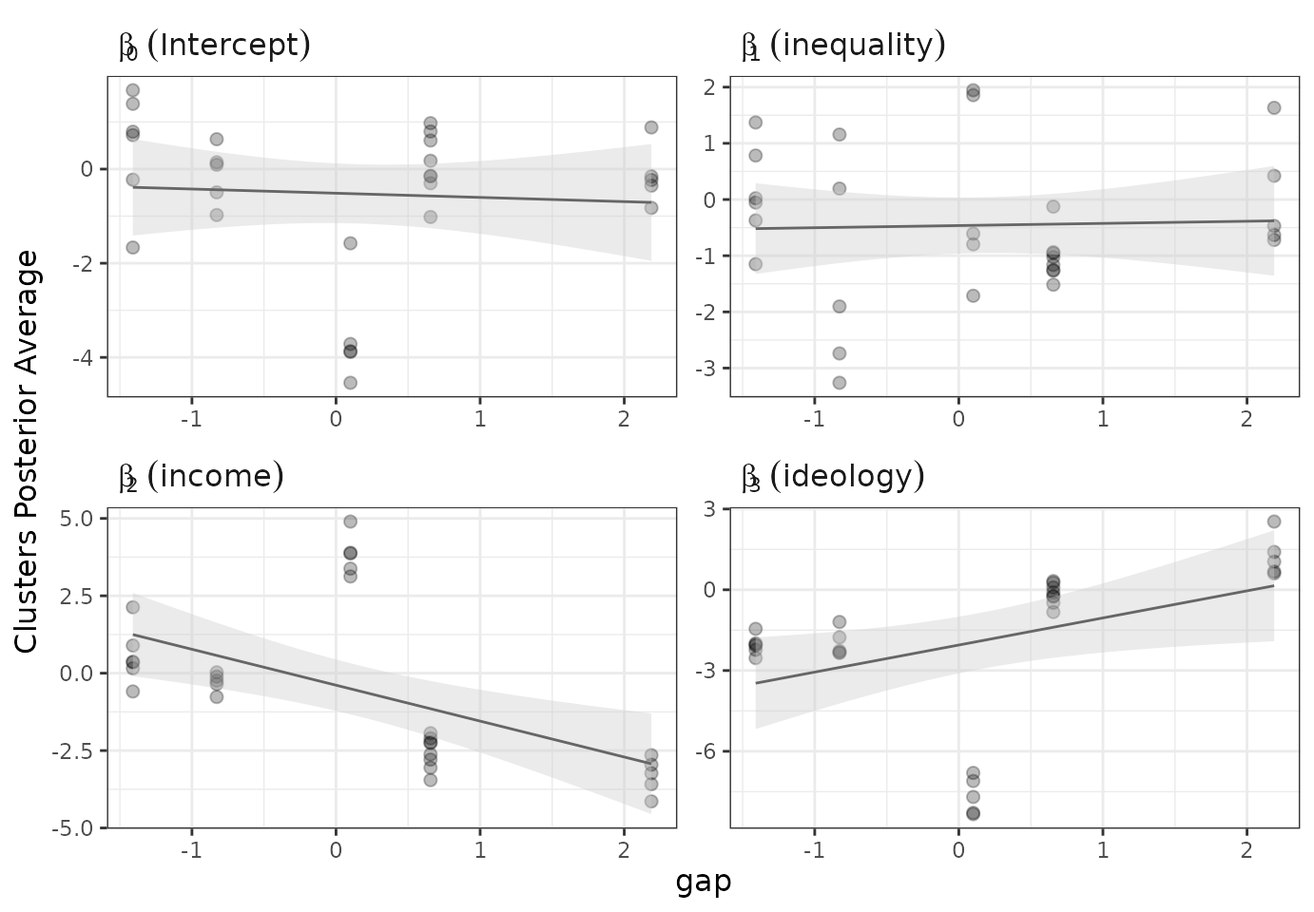
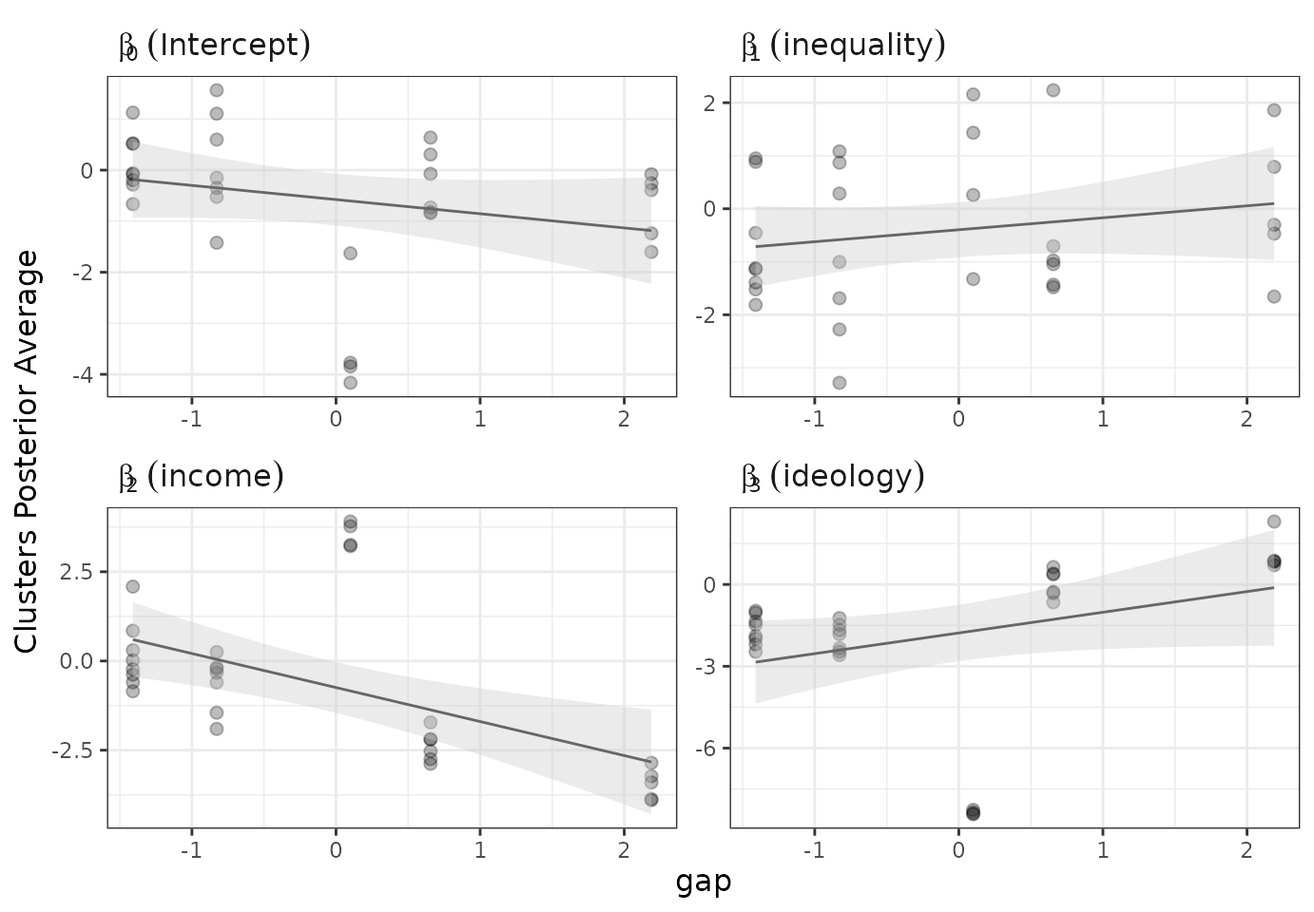
Vignette updated

diff --git a/docs/articles/hdpGLM.html b/docs/articles/hdpGLM.html
@@ -162,7 +162,7 @@
 <span class="co">#&gt; -------------------------------- </span>
 <span class="co">#&gt; dpGLM model object</span>
 <span class="co">#&gt; </span>
-<span class="co">#&gt; Maximum number of clusters activated during the estimation: 14</span>
+<span class="co">#&gt; Maximum number of clusters activated during the estimation: 10</span>
 <span class="co">#&gt; Numer of MCMC iterations: 500</span>
 <span class="co">#&gt; burn-in: 10</span>
 <span class="co">#&gt; -------------------------------- </span>
@@ -172,22 +172,22 @@
 <span class="co">#&gt; --------------------------------</span>
 <span class="co">#&gt; Coefficients for cluster 1 (cluster label 1)</span>
 <span class="co">#&gt; </span>
-<span class="co">#&gt;                Post.Mean Post.Median  HPD.lower HPD.upper</span>
-<span class="co">#&gt; 1 (Intercept) -3.8714657  -3.8726491 -3.9409884 -3.803691</span>
-<span class="co">#&gt; 2  inequality  2.0005534   2.0003258  1.9304364  2.066584</span>
-<span class="co">#&gt; 3      income  3.8483607   3.8481365  3.7736635  3.921207</span>
-<span class="co">#&gt; 4    ideology -8.3037017  -8.3034030 -8.3795892 -8.237106</span>
-<span class="co">#&gt; 5       sigma  0.9996877   0.9979384  0.9059047  1.084941</span>
+<span class="co">#&gt;               Post.Mean Post.Median  HPD.lower HPD.upper</span>
+<span class="co">#&gt; 1 (Intercept) -3.820342  -3.8205851 -3.8955201 -3.739614</span>
+<span class="co">#&gt; 2  inequality -1.518934  -1.5207438 -1.5895745 -1.442059</span>
+<span class="co">#&gt; 3      income  3.881108   3.8811515  3.8137486  3.956360</span>
+<span class="co">#&gt; 4    ideology -8.259434  -8.2594468 -8.3230964 -8.182621</span>
+<span class="co">#&gt; 5       sigma  0.981664   0.9856416  0.8756627  1.076816</span>
 <span class="co">#&gt; </span>
 <span class="co">#&gt; --------------------------------</span>
-<span class="co">#&gt; Coefficients for cluster 2 (cluster label 4)</span>
+<span class="co">#&gt; Coefficients for cluster 2 (cluster label 8)</span>
 <span class="co">#&gt; </span>
 <span class="co">#&gt;                Post.Mean Post.Median  HPD.lower HPD.upper</span>
-<span class="co">#&gt; 1 (Intercept) -3.8193291  -3.8182323 -3.8914804 -3.739364</span>
-<span class="co">#&gt; 2  inequality -1.5254658  -1.5241162 -1.6019978 -1.457243</span>
-<span class="co">#&gt; 3      income  3.8786786   3.8795568  3.8127788  3.951021</span>
-<span class="co">#&gt; 4    ideology -8.2589154  -8.2591555 -8.3352574 -8.197083</span>
-<span class="co">#&gt; 5       sigma  0.9773662   0.9772002  0.8693291  1.078841</span>
+<span class="co">#&gt; 1 (Intercept) -3.8713264  -3.8724449 -3.9348173 -3.804220</span>
+<span class="co">#&gt; 2  inequality  2.0029112   2.0022762  1.9332656  2.066500</span>
+<span class="co">#&gt; 3      income  3.8490656   3.8486538  3.7778248  3.919457</span>
+<span class="co">#&gt; 4    ideology -8.3074780  -8.3057829 -8.3810070 -8.226528</span>
+<span class="co">#&gt; 5       sigma  0.9977652   0.9950568  0.9110387  1.081033</span>
 <span class="co">#&gt; </span>
 <span class="co">#&gt; --------------------------------</span></code></pre></div>
 <p>The summary function prints the result in a tidy format. The column <code>k</code> in the summary shows the label of the estimated clusters. The column <code>Mean</code> is the average of the posterior distribution for each linear coefficient in each cluster.</p>
@@ -196,20 +196,20 @@
 <code class="sourceCode R"><span class="va">welfare_clustered</span> <span class="op">=</span> <span class="fu"><a href="../reference/classify.html">classify</a></span><span class="op">(</span><span class="va">welfare</span>, <span class="va">mod</span><span class="op">)</span>
 <span class="fu"><a href="https://rdrr.io/r/utils/head.html" class="external-link">head</a></span><span class="op">(</span><span class="va">welfare_clustered</span><span class="op">)</span>
 <span class="co">#&gt;   Cluster     support inequality     income   ideology</span>
-<span class="co">#&gt; 1       1 -18.5649610  0.3392724  0.1425111  1.9225985</span>
-<span class="co">#&gt; 2       1  -9.3905812 -0.9906646 -0.5117102  0.2483346</span>
-<span class="co">#&gt; 3       1   0.9276234 -2.2318510 -0.3856288 -1.3619216</span>
-<span class="co">#&gt; 4       1 -12.3594498 -3.0079501 -0.9440585 -0.2088675</span>
-<span class="co">#&gt; 5       4  -2.4834411  0.1000455  0.8322192  0.1321378</span>
-<span class="co">#&gt; 6       1 -11.4187853 -0.9543883 -0.8810503  0.2916444</span>
+<span class="co">#&gt; 1       8 -18.5649610  0.3392724  0.1425111  1.9225985</span>
+<span class="co">#&gt; 2       8  -9.3905812 -0.9906646 -0.5117102  0.2483346</span>
+<span class="co">#&gt; 3       8   0.9276234 -2.2318510 -0.3856288 -1.3619216</span>
+<span class="co">#&gt; 4       8 -12.3594498 -3.0079501 -0.9440585 -0.2088675</span>
+<span class="co">#&gt; 5       1  -2.4834411  0.1000455  0.8322192  0.1321378</span>
+<span class="co">#&gt; 6       8 -11.4187853 -0.9543883 -0.8810503  0.2916444</span>
 <span class="fu"><a href="https://rdrr.io/r/utils/head.html" class="external-link">tail</a></span><span class="op">(</span><span class="va">welfare_clustered</span><span class="op">)</span>
 <span class="co">#&gt;      Cluster     support  inequality     income   ideology</span>
-<span class="co">#&gt; 1995       4  -1.5230053 1.055855140 -0.7295937 -0.7067871</span>
-<span class="co">#&gt; 1996       4   0.4814892 0.582588091  2.0051082  0.3090389</span>
-<span class="co">#&gt; 1997       4 -14.1929956 0.391164197 -0.9607449  0.7765482</span>
-<span class="co">#&gt; 1998       4  -8.2396789 0.074437376  1.2020300  1.0874928</span>
+<span class="co">#&gt; 1995       1  -1.5230053 1.055855140 -0.7295937 -0.7067871</span>
+<span class="co">#&gt; 1996       1   0.4814892 0.582588091  2.0051082  0.3090389</span>
+<span class="co">#&gt; 1997       1 -14.1929956 0.391164197 -0.9607449  0.7765482</span>
+<span class="co">#&gt; 1998       1  -8.2396789 0.074437376  1.2020300  1.0874928</span>
 <span class="co">#&gt; 1999       1 -23.1583753 0.434223018 -0.6176438  2.0387294</span>
-<span class="co">#&gt; 2000       4  -7.2075582 0.008355317 -0.4538951  0.2268072</span></code></pre></div>
+<span class="co">#&gt; 2000       1  -7.2075582 0.008355317 -0.4538951  0.2268072</span></code></pre></div>
 <p>There are a series of built-in functions, with various options, to plot the results. In the example below, you see two of those options. The <code>separate</code> parameter plot the posterior samples for each cluster separately, and the option <code>ncols</code> controls how many columns to use for the panels in the figure (to see more, run <code><a href="../reference/plot.hdpGLM.html">help(plot.hdpGLM)</a></code> and <code><a href="../reference/plot.dpGLM.html">help(plot.dpGLM)</a></code>).</p>
 <div class="sourceCode" id="cb6"><pre class="downlit sourceCode r">
 <code class="sourceCode R"><span class="fu"><a href="https://rdrr.io/r/graphics/plot.default.html" class="external-link">plot</a></span><span class="op">(</span><span class="va">mod</span>, separate<span class="op">=</span><span class="cn">T</span>, ncols<span class="op">=</span><span class="fl">4</span><span class="op">)</span>
@@ -263,8 +263,8 @@
 <span class="co">#&gt; </span>
 <span class="co">#&gt; Number of clusters (summary across contexts): </span>
 <span class="co">#&gt; </span>
-<span class="co">#&gt;   Average Std.Dev Median Min. Max.</span>
-<span class="co">#&gt; 1     5.8 1.30384      5    5    8</span>
+<span class="co">#&gt;   Average  Std.Dev Median Min. Max.</span>
+<span class="co">#&gt; 1       6 1.581139      6    4    8</span>
 <span class="co">#&gt; -------------------------------- </span>
 <span class="co">#&gt; </span>
 <span class="co">#&gt; </span>
@@ -273,155 +273,159 @@
 <span class="co">#&gt; --------------------------------</span>
 <span class="co">#&gt; Coefficients and clusters for context 1</span>
 <span class="co">#&gt; </span>
-<span class="co">#&gt;                 Post.Mean Post.Median  HPD.lower  HPD.upper Cluster</span>
-<span class="co">#&gt; 1  (Intercept) -3.8691486  -3.8677277 -3.9317384 -3.8028867       1</span>
-<span class="co">#&gt; 2   inequality  1.8572635   1.9723704  0.3701819  2.1128131       1</span>
-<span class="co">#&gt; 3       income  3.8684303   3.8678467  3.8094518  3.9593933       1</span>
-<span class="co">#&gt; 4     ideology -8.3337143  -8.3265556 -8.4113724 -8.2579189       1</span>
-<span class="co">#&gt; 5  (Intercept) -3.8838981  -4.0436776 -4.3945020 -3.0875923       3</span>
-<span class="co">#&gt; 6   inequality  1.9447127   1.7012563  1.3604077  3.3998124       3</span>
-<span class="co">#&gt; 7       income  4.8990707   4.8160991  4.4604110  5.5971629       3</span>
-<span class="co">#&gt; 8     ideology -7.1033860  -7.0553234 -7.8293354 -6.7414286       3</span>
-<span class="co">#&gt; 9  (Intercept) -3.7153994  -3.7111308 -3.8544582 -3.4682348       5</span>
-<span class="co">#&gt; 10  inequality -1.7127796  -1.7016789 -1.8887122 -1.5995945       5</span>
-<span class="co">#&gt; 11      income  3.8908823   3.9170212  3.5403026  4.0820740       5</span>
-<span class="co">#&gt; 12    ideology -8.2862354  -8.3023397 -8.4961317 -8.2127732       5</span>
-<span class="co">#&gt; 13 (Intercept) -1.5761459  -1.7543487 -2.7112219  1.4165447       7</span>
-<span class="co">#&gt; 14  inequality -0.6075125  -0.6166066 -1.1661250  0.1292782       7</span>
-<span class="co">#&gt; 15      income  3.1254454   3.2621091  2.2328930  3.7288342       7</span>
-<span class="co">#&gt; 16    ideology -6.8017677  -7.1393259 -8.0906265 -3.8284329       7</span>
-<span class="co">#&gt; 17 (Intercept) -4.5401229  -4.0133279 -6.6431063 -3.7656886       9</span>
-<span class="co">#&gt; 18  inequality -0.7975913  -1.3681130 -1.5226403  1.3218476       9</span>
-<span class="co">#&gt; 19      income  3.3773827   3.8280258  1.4977067  4.0056551       9</span>
-<span class="co">#&gt; 20    ideology -7.6955496  -8.1496245 -8.3111966 -3.9722123       9</span>
-<span class="co">#&gt; </span>
-<span class="co">#&gt; --------------------------------</span>
-<span class="co">#&gt; Coefficients and clusters for context 4</span>
-<span class="co">#&gt; </span>
-<span class="co">#&gt;                  Post.Mean Post.Median   HPD.lower   HPD.upper Cluster</span>
-<span class="co">#&gt; 1  (Intercept)  0.17676250  0.17288753  0.06786528  0.32057505       1</span>
-<span class="co">#&gt; 2   inequality -1.16417841 -1.17386088 -1.28738349 -1.05128599       1</span>
-<span class="co">#&gt; 3       income -2.62197857 -2.65490275 -2.74894948 -2.47972794       1</span>
-<span class="co">#&gt; 4     ideology -0.09635996 -0.07998361 -0.28382959  0.04573722       1</span>
-<span class="co">#&gt; 5  (Intercept)  0.97543076  0.94460491  0.68283623  1.53289463       2</span>
-<span class="co">#&gt; 6   inequality -0.93631248 -0.95258268 -1.17981640 -0.69206364       2</span>
-<span class="co">#&gt; 7       income -2.23369431 -2.45897054 -2.67470977 -1.95060768       2</span>
-<span class="co">#&gt; 8     ideology -0.23312620 -0.31240089 -0.48148471  0.24953273       2</span>
-<span class="co">#&gt; 9  (Intercept) -1.01740353 -0.98673051 -1.24342487 -0.66275912       3</span>
-<span class="co">#&gt; 10  inequality -1.25575996 -1.25706801 -1.44149898 -1.05238893       3</span>
-<span class="co">#&gt; 11      income -2.25911847 -2.27396814 -2.66235655 -1.98865013       3</span>
-<span class="co">#&gt; 12    ideology -0.25490150 -0.25030628 -0.57721146 -0.06739714       3</span>
-<span class="co">#&gt; 13 (Intercept) -0.30045284 -0.28616407 -0.68974396  0.08508223       4</span>
-<span class="co">#&gt; 14  inequality -1.02500906 -1.03763303 -1.32535346 -0.74614004       4</span>
-<span class="co">#&gt; 15      income -2.10465838 -2.11764743 -2.56871856 -1.73692957       4</span>
-<span class="co">#&gt; 16    ideology  0.26354588  0.22948666  0.04828375  0.60100828       4</span>
-<span class="co">#&gt; 17 (Intercept) -0.14518443 -0.07861976 -0.59821741  0.18224460       5</span>
-<span class="co">#&gt; 18  inequality -1.26635235 -1.28146163 -1.67993619 -0.98265583       5</span>
-<span class="co">#&gt; 19      income -2.79195933 -2.84451891 -3.05840214 -2.60594812       5</span>
-<span class="co">#&gt; 20    ideology -0.48196099 -0.50379396 -1.11216045  0.02684259       5</span>
-<span class="co">#&gt; 21 (Intercept) -0.15139195 -0.08755979 -0.82145053  0.32374937       6</span>
-<span class="co">#&gt; 22  inequality -1.51665084 -1.34283852 -2.38536286 -0.94057238       6</span>
-<span class="co">#&gt; 23      income -3.45379267 -3.42849762 -3.73671854 -3.05479385       6</span>
-<span class="co">#&gt; 24    ideology  0.32187162  0.54100111 -0.58710337  0.94140028       6</span>
-<span class="co">#&gt; 25 (Intercept)  0.79902372  1.04989742 -1.30788815  1.96491760       7</span>
-<span class="co">#&gt; 26  inequality -0.12714421 -0.64147338 -1.19583552  5.53720903       7</span>
-<span class="co">#&gt; 27      income -3.05183147 -3.50077828 -6.39736779  0.81985863       7</span>
-<span class="co">#&gt; 28    ideology -0.82811075 -0.52324498 -4.53580283  0.40022396       7</span>
-<span class="co">#&gt; 29 (Intercept)  0.60705225  0.85693781 -0.95381157  2.08055623       8</span>
-<span class="co">#&gt; 30  inequality -0.95584833 -0.96880533 -2.31320845  0.75725681       8</span>
-<span class="co">#&gt; 31      income -1.93796878 -2.06588358 -3.53701738  0.56348165       8</span>
-<span class="co">#&gt; 32    ideology  0.08618603  0.04528429 -1.21411209  1.35628771       8</span>
+<span class="co">#&gt;                 Post.Mean Post.Median   HPD.lower  HPD.upper Cluster</span>
+<span class="co">#&gt; 1  (Intercept) -3.8435408  -3.8331510 -3.97615472 -3.7537721       1</span>
+<span class="co">#&gt; 2   inequality -1.3261029  -1.4901385 -1.60901140  0.1909329       1</span>
+<span class="co">#&gt; 3       income  3.9066994   3.8943490  3.82972320  4.0263987       1</span>
+<span class="co">#&gt; 4     ideology -8.2611514  -8.2624920 -8.33710096 -8.1455290       1</span>
+<span class="co">#&gt; 5  (Intercept) -4.1654905  -4.0462736 -4.69968653 -3.8005696       2</span>
+<span class="co">#&gt; 6   inequality  1.4334157   1.8348051 -0.05470515  2.0414495       2</span>
+<span class="co">#&gt; 7       income  3.2182141   3.7806349  1.36860779  3.9024854       2</span>
+<span class="co">#&gt; 8     ideology -8.4188022  -8.3177074 -9.17621538 -8.1796062       2</span>
+<span class="co">#&gt; 9  (Intercept) -3.7734976  -3.7792676 -3.92427463 -3.6115441       4</span>
+<span class="co">#&gt; 10  inequality  2.1559495   2.1683449  1.77261760  2.4698304       4</span>
+<span class="co">#&gt; 11      income  3.7756314   3.9057743  2.39785208  3.9984130       4</span>
+<span class="co">#&gt; 12    ideology -8.4067996  -8.3653046 -8.79600576 -8.2157451       4</span>
+<span class="co">#&gt; 13 (Intercept) -1.6294115  -1.9283983 -2.97297752  2.6425719       9</span>
+<span class="co">#&gt; 14  inequality  0.2594955   0.3268137 -2.65567556  1.8628584       9</span>
+<span class="co">#&gt; 15      income  3.2532009   3.5737939  0.37857368  4.5539295       9</span>
+<span class="co">#&gt; 16    ideology -8.3468020  -8.2634402 -9.35668914 -7.3552482       9</span>
 <span class="co">#&gt; </span>
 <span class="co">#&gt; --------------------------------</span>
 <span class="co">#&gt; Coefficients and clusters for context 2</span>
 <span class="co">#&gt; </span>
-<span class="co">#&gt;                  Post.Mean  Post.Median  HPD.lower   HPD.upper Cluster</span>
-<span class="co">#&gt; 1  (Intercept)  1.67479600  1.415211168  1.0581926  3.74313982       2</span>
-<span class="co">#&gt; 2   inequality  0.78277032  0.884627921 -0.2788658  1.30408963       2</span>
-<span class="co">#&gt; 3       income  0.89384429  0.875372002  0.6090348  1.34595069       2</span>
-<span class="co">#&gt; 4     ideology -2.07275976 -1.855912499 -4.0898826 -1.49981793       2</span>
-<span class="co">#&gt; 5  (Intercept)  0.79337396  1.125280248 -2.9945613  3.55177595       3</span>
-<span class="co">#&gt; 6   inequality  1.37071138  2.459151719 -3.5129613  5.13723665       3</span>
-<span class="co">#&gt; 7       income  0.36773516  0.080366101 -3.7171086  7.17338403       3</span>
-<span class="co">#&gt; 8     ideology -2.53563412 -2.681784943 -5.7168872 -0.15771001       3</span>
-<span class="co">#&gt; 9  (Intercept)  0.72155228  0.923436239  0.0254056  1.57290548       4</span>
-<span class="co">#&gt; 10  inequality -0.05395425  0.005435634 -0.8023076  0.50158841       4</span>
-<span class="co">#&gt; 11      income  0.15755351  0.203699603 -0.3884543  0.83771211       4</span>
-<span class="co">#&gt; 12    ideology -1.45166647 -1.355886861 -3.4258981 -0.11660923       4</span>
-<span class="co">#&gt; 13 (Intercept) -1.66627979 -1.669807751 -1.9173291 -1.28821102       5</span>
-<span class="co">#&gt; 14  inequality -0.37207001 -0.451312918 -0.6369271  0.04977276       5</span>
-<span class="co">#&gt; 15      income  0.35513894  0.325143787  0.1088124  0.63353753       5</span>
-<span class="co">#&gt; 16    ideology -1.99405608 -2.038059511 -2.2757063 -1.32307832       5</span>
-<span class="co">#&gt; 17 (Intercept) -0.22532090 -0.172609551 -0.6156275  0.01958949       6</span>
-<span class="co">#&gt; 18  inequality -1.15073691 -1.220684525 -1.4728475 -0.35560105       6</span>
-<span class="co">#&gt; 19      income -0.59035364 -0.595316492 -0.8756050 -0.32579345       6</span>
-<span class="co">#&gt; 20    ideology -2.03482279 -2.250274071 -2.4096874  0.11327415       6</span>
-<span class="co">#&gt; 21 (Intercept)  1.38626489  1.571637990 -2.6477220  4.45208956       7</span>
-<span class="co">#&gt; 22  inequality  0.02238204 -0.057662717 -4.2624059  5.95642783       7</span>
-<span class="co">#&gt; 23      income  2.13002367  2.536470238 -3.4807882  5.56484158       7</span>
-<span class="co">#&gt; 24    ideology -2.22934508 -2.129339393 -7.7649972  2.79895524       7</span>
+<span class="co">#&gt;                  Post.Mean Post.Median  HPD.lower   HPD.upper Cluster</span>
+<span class="co">#&gt; 1  (Intercept)  0.51517881  0.36982828 -1.1130717  3.30249080       1</span>
+<span class="co">#&gt; 2   inequality -0.45557980 -0.20228041 -4.5808496  1.19173373       1</span>
+<span class="co">#&gt; 3       income -0.23081965  0.13507036 -6.4076499  1.09119173       1</span>
+<span class="co">#&gt; 4     ideology -1.99271658 -1.82966055 -4.1611936  4.26886540       1</span>
+<span class="co">#&gt; 5  (Intercept)  0.52389369  0.45962310  0.2398841  1.05539241       2</span>
+<span class="co">#&gt; 6   inequality -1.14002268 -0.98920628 -2.3117589 -0.76755352       2</span>
+<span class="co">#&gt; 7       income  2.08428502  2.01491051  1.8084943  2.93497029       2</span>
+<span class="co">#&gt; 8     ideology -1.35643411 -1.49235789 -1.6937644  0.01399451       2</span>
+<span class="co">#&gt; 9  (Intercept) -0.08153898 -0.14729049 -1.0246796  1.15942831       3</span>
+<span class="co">#&gt; 10  inequality  0.94896101  0.94429845  0.2015474  1.81448360       3</span>
+<span class="co">#&gt; 11      income -0.38343117 -0.29268862 -2.1449640  0.26683443       3</span>
+<span class="co">#&gt; 12    ideology -0.96905307 -1.22408914 -2.0249429  2.39941207       3</span>
+<span class="co">#&gt; 13 (Intercept) -0.28342929 -0.25251476 -1.0816921  0.04286750       5</span>
+<span class="co">#&gt; 14  inequality -1.39204865 -1.33632204 -2.3874876 -1.07728801       5</span>
+<span class="co">#&gt; 15      income -0.59661544 -0.56389919 -1.0997142 -0.31865697       5</span>
+<span class="co">#&gt; 16    ideology -2.19548561 -2.42322731 -2.5587404  0.68848760       5</span>
+<span class="co">#&gt; 17 (Intercept)  1.12505164  1.27700303 -0.8627735  1.53019849       6</span>
+<span class="co">#&gt; 18  inequality  0.88482857  0.94888981 -0.2893567  1.14176656       6</span>
+<span class="co">#&gt; 19      income  0.84726425  0.85747370  0.3982322  1.10390156       6</span>
+<span class="co">#&gt; 20    ideology -1.47622400 -1.76979768 -2.0274940  2.90507937       6</span>
+<span class="co">#&gt; 21 (Intercept) -0.06257288  0.24009197 -3.5631537  1.09447357       8</span>
+<span class="co">#&gt; 22  inequality -1.81240073 -1.65072309 -2.7426522 -1.19761110       8</span>
+<span class="co">#&gt; 23      income -0.84998923 -1.19613474 -1.6119598  1.49553415       8</span>
+<span class="co">#&gt; 24    ideology -1.89030882 -1.79190882 -3.5228788 -1.17520153       8</span>
+<span class="co">#&gt; 25 (Intercept) -0.66600743 -0.62652090 -2.7758009  0.62286584       9</span>
+<span class="co">#&gt; 26  inequality -1.52015838 -1.53887343 -4.0228883  0.79006614       9</span>
+<span class="co">#&gt; 27      income  0.30017208  0.24313952 -3.2089231  3.26031261       9</span>
+<span class="co">#&gt; 28    ideology -2.46547313 -2.66935554 -9.1347461  1.31292225       9</span>
+<span class="co">#&gt; 29 (Intercept) -0.19615868  0.02584415 -4.4148130  2.33270769      10</span>
+<span class="co">#&gt; 30  inequality -1.12077777 -0.96591307 -3.6755876  1.15610225      10</span>
+<span class="co">#&gt; 31      income  0.01800805  0.03644266 -1.3027596  1.97109753      10</span>
+<span class="co">#&gt; 32    ideology -1.04117294 -1.10409139 -3.1644595  1.56493757      10</span>
+<span class="co">#&gt; </span>
+<span class="co">#&gt; --------------------------------</span>
+<span class="co">#&gt; Coefficients and clusters for context 4</span>
+<span class="co">#&gt; </span>
+<span class="co">#&gt;                  Post.Mean Post.Median  HPD.lower   HPD.upper Cluster</span>
+<span class="co">#&gt; 1  (Intercept) -0.73169442  -0.9037980 -1.1013846  0.02095586       2</span>
+<span class="co">#&gt; 2   inequality -1.43295067  -1.1818594 -2.1454116 -1.05185860       2</span>
+<span class="co">#&gt; 3       income -2.19496354  -2.1967887 -2.4152972 -1.92226657       2</span>
+<span class="co">#&gt; 4     ideology -0.32657228  -0.4105017 -0.5678483  0.05895695       2</span>
+<span class="co">#&gt; 5  (Intercept)  0.30496453   0.3074959  0.1375807  0.50958599       3</span>
+<span class="co">#&gt; 6   inequality -0.97712826  -0.9698720 -1.1711130 -0.80950998       3</span>
+<span class="co">#&gt; 7       income -2.52909758  -2.5380155 -2.7778165 -2.28215864       3</span>
+<span class="co">#&gt; 8     ideology -0.65522072  -0.6180790 -1.7552076 -0.18595031       3</span>
+<span class="co">#&gt; 9  (Intercept) -0.82320049  -0.5636055 -2.7392664  0.01507585       4</span>
+<span class="co">#&gt; 10  inequality -0.70580192  -0.6398551 -2.6985684  0.54406905       4</span>
+<span class="co">#&gt; 11      income -2.88178379  -3.1539417 -3.5607514 -1.37349445       4</span>
+<span class="co">#&gt; 12    ideology -0.27218048  -0.1219527 -1.0505935  0.17477572       4</span>
+<span class="co">#&gt; 13 (Intercept) -0.07288973  -0.1241986 -0.5169159  0.33336338       5</span>
+<span class="co">#&gt; 14  inequality -1.47828818  -1.4600679 -1.8922423 -1.13063116       5</span>
+<span class="co">#&gt; 15      income -2.75122165  -2.7351810 -3.1753430 -2.34791485       5</span>
+<span class="co">#&gt; 16    ideology  0.36634080   0.4262114 -0.4475449  0.69993376       5</span>
+<span class="co">#&gt; 17 (Intercept) -0.84468338  -0.3447709 -4.7801772  0.75100507       6</span>
+<span class="co">#&gt; 18  inequality  2.23500247   2.1281864 -2.0873087  5.44966683       6</span>
+<span class="co">#&gt; 19      income -1.72149327  -2.6214383 -4.1903446  5.03939343       6</span>
+<span class="co">#&gt; 20    ideology  0.63702113   0.8832615 -4.7261404  3.37890339       6</span>
+<span class="co">#&gt; 21 (Intercept)  0.63612631   0.6218067 -1.8050652  1.12838455       8</span>
+<span class="co">#&gt; 22  inequality -1.04446505  -0.8454189 -2.6105068 -0.33908151       8</span>
+<span class="co">#&gt; 23      income -2.19520750  -2.5450627 -3.2433446  0.13591487       8</span>
+<span class="co">#&gt; 24    ideology  0.39650249   0.5418948 -0.1688364  1.03508159       8</span>
 <span class="co">#&gt; </span>
 <span class="co">#&gt; --------------------------------</span>
 <span class="co">#&gt; Coefficients and clusters for context 3</span>
 <span class="co">#&gt; </span>
-<span class="co">#&gt;                 Post.Mean Post.Median  HPD.lower   HPD.upper Cluster</span>
-<span class="co">#&gt; 1  (Intercept)  0.8847837   0.8670887  0.4440868  1.64536474       2</span>
-<span class="co">#&gt; 2   inequality -0.7201473  -0.7261880 -1.4315934 -0.06502692       2</span>
-<span class="co">#&gt; 3       income -3.2330669  -3.2074960 -3.7517981 -2.81656389       2</span>
-<span class="co">#&gt; 4     ideology  1.4047089   1.3258900  0.9992620  2.07561204       2</span>
-<span class="co">#&gt; 5  (Intercept) -0.1560542  -0.1670984 -0.3567996  0.06752777       3</span>
-<span class="co">#&gt; 6   inequality  0.4220560   0.4961143 -0.3965719  0.68384657       3</span>
-<span class="co">#&gt; 7       income -2.6478884  -2.6612192 -2.8985058 -2.44966827       3</span>
-<span class="co">#&gt; 8     ideology  2.5336330   2.5332857  2.2417808  2.83275934       3</span>
-<span class="co">#&gt; 9  (Intercept) -0.2318789  -0.2631560 -0.5590538  0.24849847       4</span>
-<span class="co">#&gt; 10  inequality -0.6318494  -0.5938524 -1.2534524 -0.34594583       4</span>
-<span class="co">#&gt; 11      income -4.1415378  -4.1679740 -4.4028476 -3.61067586       4</span>
-<span class="co">#&gt; 12    ideology  0.6081997   0.6554321  0.4139409  0.94958909       4</span>
-<span class="co">#&gt; 13 (Intercept) -0.8243996  -1.1429427 -2.4568882  4.04187778       6</span>
-<span class="co">#&gt; 14  inequality -0.4702054  -0.7751497 -3.1114149  6.02576715       6</span>
-<span class="co">#&gt; 15      income -2.9572295  -3.1089226 -4.4376228  0.32281265       6</span>
-<span class="co">#&gt; 16    ideology  0.6768684   0.5059511 -2.3519760  4.07032118       6</span>
-<span class="co">#&gt; 17 (Intercept) -0.3518338  -0.2648008 -1.1389038  1.84822410       7</span>
-<span class="co">#&gt; 18  inequality  1.6318904   1.6933652  1.0811604  3.01500451       7</span>
-<span class="co">#&gt; 19      income -3.5868551  -3.5963558 -5.4360496 -2.88423876       7</span>
-<span class="co">#&gt; 20    ideology  1.0447280   1.1474427 -0.7982967  4.00430864       7</span>
+<span class="co">#&gt;                  Post.Mean Post.Median  HPD.lower   HPD.upper Cluster</span>
+<span class="co">#&gt; 1  (Intercept) -0.25926953 -0.19820173 -0.8816599  0.03342723       3</span>
+<span class="co">#&gt; 2   inequality  0.78949978  0.64948395  0.5068128  1.55336311       3</span>
+<span class="co">#&gt; 3       income -2.85449611 -2.74641691 -3.3410792 -2.59413200       3</span>
+<span class="co">#&gt; 4     ideology  2.30467376  2.47924176  0.8218901  2.66171271       3</span>
+<span class="co">#&gt; 5  (Intercept) -1.23877840 -1.18551761 -3.2578749 -0.54258564       4</span>
+<span class="co">#&gt; 6   inequality -1.65628941 -1.27929729 -5.5054353 -0.94653243       4</span>
+<span class="co">#&gt; 7       income -3.87005921 -3.60267799 -4.7326358 -2.94788794       4</span>
+<span class="co">#&gt; 8     ideology  0.70516584  0.54238621  0.2423656  2.75080495       4</span>
+<span class="co">#&gt; 9  (Intercept) -0.39154150 -0.42097471 -2.2758667  0.97352390       5</span>
+<span class="co">#&gt; 10  inequality  1.85820726  1.69308566 -0.2560587  5.43778542       5</span>
+<span class="co">#&gt; 11      income -3.40348888 -3.57881612 -3.8411959  3.14998154       5</span>
+<span class="co">#&gt; 12    ideology  0.84778008  1.18706324 -2.6682937  2.33590577       5</span>
+<span class="co">#&gt; 13 (Intercept) -1.60223761 -1.71800492 -3.6047634  3.02291795       6</span>
+<span class="co">#&gt; 14  inequality -0.30337093 -0.21030377 -3.7006471  2.47982950       6</span>
+<span class="co">#&gt; 15      income -3.22913871 -3.32121285 -4.9993828  4.10891333       6</span>
+<span class="co">#&gt; 16    ideology  0.86996488  0.73873960 -1.3419990  5.59434670       6</span>
+<span class="co">#&gt; 17 (Intercept) -0.08123915 -0.07360822 -0.3040332  0.13814669       7</span>
+<span class="co">#&gt; 18  inequality -0.46931615 -0.45660556 -0.7247035 -0.24120807       7</span>
+<span class="co">#&gt; 19      income -3.90040841 -3.92053592 -4.1540293 -3.58396193       7</span>
+<span class="co">#&gt; 20    ideology  0.82768350  0.79159576  0.5023551  1.21020385       7</span>
 <span class="co">#&gt; </span>
 <span class="co">#&gt; --------------------------------</span>
 <span class="co">#&gt; Coefficients and clusters for context 5</span>
 <span class="co">#&gt; </span>
-<span class="co">#&gt;                  Post.Mean Post.Median  HPD.lower   HPD.upper Cluster</span>
-<span class="co">#&gt; 1  (Intercept)  0.14378125  0.10355586 -0.1863741  0.45337486       3</span>
-<span class="co">#&gt; 2   inequality -2.73914198 -2.71233628 -3.2110295 -2.45038944       3</span>
-<span class="co">#&gt; 3       income  0.02808539  0.03373023 -0.2073585  0.34784213       3</span>
-<span class="co">#&gt; 4     ideology -2.34434050 -2.34533103 -2.5661062 -2.14748562       3</span>
-<span class="co">#&gt; 5  (Intercept) -0.49384541 -0.28725043 -3.1658199  0.10961552       6</span>
-<span class="co">#&gt; 6   inequality  0.19457663  0.34583484 -2.5186260  0.66689875       6</span>
-<span class="co">#&gt; 7       income -0.24181767 -0.57169428 -0.8569157  3.27714872       6</span>
-<span class="co">#&gt; 8     ideology -1.19576197 -1.22066761 -1.9053752 -0.64169451       6</span>
-<span class="co">#&gt; 9  (Intercept)  0.09163964 -0.05401084 -0.3562889  1.24751399       7</span>
-<span class="co">#&gt; 10  inequality  1.15636172  1.11504869  0.8127114  1.90153849       7</span>
-<span class="co">#&gt; 11      income -0.34901827 -0.27650570 -1.0691483  0.16918513       7</span>
-<span class="co">#&gt; 12    ideology -2.32895385 -2.25242046 -3.2532401 -1.86638722       7</span>
-<span class="co">#&gt; 13 (Intercept) -0.97563876 -0.89174589 -3.1299880  0.02380299       8</span>
-<span class="co">#&gt; 14  inequality -1.90303703 -1.93124827 -3.2614347 -0.06421927       8</span>
-<span class="co">#&gt; 15      income -0.10974005  0.02609806 -4.7503304  0.79137900       8</span>
-<span class="co">#&gt; 16    ideology -1.76756682 -1.95284365 -3.6906910 -1.11937194       8</span>
-<span class="co">#&gt; 17 (Intercept)  0.63445814  0.43454385  0.1740331  1.71298041       9</span>
-<span class="co">#&gt; 18  inequality -3.26190011 -3.38805920 -3.6553124 -2.25720779       9</span>
-<span class="co">#&gt; 19      income -0.76760586 -0.96699265 -1.2775367  0.86440020       9</span>
-<span class="co">#&gt; 20    ideology -2.27141841 -2.22826003 -3.3879884 -1.67059792       9</span>
+<span class="co">#&gt;                 Post.Mean Post.Median  HPD.lower    HPD.upper Cluster</span>
+<span class="co">#&gt; 1  (Intercept) -1.4230080  -1.5321705 -5.8839698  0.661614331       3</span>
+<span class="co">#&gt; 2   inequality -1.0037273  -0.5778022 -4.0309941  1.938385162       3</span>
+<span class="co">#&gt; 3       income -1.4495888  -1.4399573 -7.2817562  1.303123917       3</span>
+<span class="co">#&gt; 4     ideology -1.4762405  -1.1722886 -4.9055396  2.085237802       3</span>
+<span class="co">#&gt; 5  (Intercept)  0.5974113   0.5996596  0.4375301  0.806622644       4</span>
+<span class="co">#&gt; 6   inequality -3.2824664  -3.2509196 -3.7445584 -3.016684375       4</span>
+<span class="co">#&gt; 7       income -0.6024051  -0.6293511 -1.0480435 -0.076555141       4</span>
+<span class="co">#&gt; 8     ideology -2.3373070  -2.3415567 -2.6098938 -1.881150575       4</span>
+<span class="co">#&gt; 9  (Intercept) -0.1495733  -0.1006644 -0.8479257  0.244119622       6</span>
+<span class="co">#&gt; 10  inequality -2.2764331  -2.4231700 -2.6857205 -0.912810232       6</span>
+<span class="co">#&gt; 11      income  0.2495686   0.2128931 -0.2357286  0.930641607       6</span>
+<span class="co">#&gt; 12    ideology -2.4631179  -2.3664796 -3.5038423 -2.053526800       6</span>
+<span class="co">#&gt; 13 (Intercept)  1.5639364   1.3737555  0.8902776  3.201790814       7</span>
+<span class="co">#&gt; 14  inequality  1.0824862   1.1268703  0.3697653  1.556852243       7</span>
+<span class="co">#&gt; 15      income -1.9043067  -1.9180961 -3.1397485 -0.339659631       7</span>
+<span class="co">#&gt; 16    ideology -1.8219555  -1.8295541 -2.3864767 -1.301599260       7</span>
+<span class="co">#&gt; 17 (Intercept) -0.3492777  -0.2368883 -1.6480603  0.052455567       8</span>
+<span class="co">#&gt; 18  inequality  0.8690288   0.9025359  0.3899188  1.151068730       8</span>
+<span class="co">#&gt; 19      income -0.2230016  -0.2288693 -0.6186030  0.051196600       8</span>
+<span class="co">#&gt; 20    ideology -1.6768671  -1.8276805 -2.2241845 -0.001043684       8</span>
+<span class="co">#&gt; 21 (Intercept) -0.5236535  -0.5162855 -1.6781679  0.352866511       9</span>
+<span class="co">#&gt; 22  inequality  0.2863078   0.5151032 -1.8217861  1.240399405       9</span>
+<span class="co">#&gt; 23      income -0.1754565  -0.0660489 -1.4071954  0.977147222       9</span>
+<span class="co">#&gt; 24    ideology -2.5897118  -2.4460167 -3.5903491 -1.641755515       9</span>
+<span class="co">#&gt; 25 (Intercept)  1.1040340   1.3959161 -4.8030769  4.915629556      10</span>
+<span class="co">#&gt; 26  inequality -1.6883346  -2.1510346 -6.2685254  4.878065344      10</span>
+<span class="co">#&gt; 27      income -0.3298004  -0.1037712 -7.8493782  3.596276474      10</span>
+<span class="co">#&gt; 28    ideology -1.2344563  -1.4435882 -6.0020544  4.321253399      10</span>
 <span class="co">#&gt; </span>
 <span class="co">#&gt; --------------------------------</span>
 <span class="co">#&gt; Context-level coefficients:</span>
-<span class="co">#&gt;                Description   Post.Mean  HPD.lower HPD.upper</span>
-<span class="co">#&gt; 1     Intercept of beta[0] -0.22175967 -2.1266806 1.6908866</span>
-<span class="co">#&gt; 2     Intercept of beta[1] -0.01460373 -2.0393068 2.1166829</span>
-<span class="co">#&gt; 3     Intercept of beta[2] -0.27531666 -2.7087252 2.2909802</span>
-<span class="co">#&gt; 4     Intercept of beta[3] -1.43345634 -4.8102580 0.7758202</span>
-<span class="co">#&gt; 5 Effect of gap on beta[0] -0.10358190 -1.7462992 1.9123287</span>
-<span class="co">#&gt; 6 Effect of gap on beta[1] -0.07384572 -2.3858689 2.3060910</span>
-<span class="co">#&gt; 7 Effect of gap on beta[2] -1.02872683 -2.7506855 0.8393976</span>
-<span class="co">#&gt; 8 Effect of gap on beta[3]  0.63585838 -0.8388172 2.8267613</span>
+<span class="co">#&gt;                Description   Post.Mean HPD.lower HPD.upper</span>
+<span class="co">#&gt; 1     Intercept of beta[0] -0.89116782 -3.738900  1.014190</span>
+<span class="co">#&gt; 2     Intercept of beta[1] -0.04422762 -3.386908  2.312727</span>
+<span class="co">#&gt; 3     Intercept of beta[2] -0.27283941 -3.895699  2.922150</span>
+<span class="co">#&gt; 4     Intercept of beta[3] -1.36146719 -4.077107  1.787112</span>
+<span class="co">#&gt; 5 Effect of gap on beta[0] -0.43612976 -2.538018  1.701550</span>
+<span class="co">#&gt; 6 Effect of gap on beta[1]  0.35448946 -1.709326  3.250508</span>
+<span class="co">#&gt; 7 Effect of gap on beta[2] -0.55377612 -3.046532  1.279999</span>
+<span class="co">#&gt; 8 Effect of gap on beta[3]  0.51181063 -1.655892  2.477581</span>
 <span class="co">#&gt; </span>
 <span class="co">#&gt; --------------------------------</span></code></pre></div>
 <p>The <code>summary</code> contains more information now. As before, the column <code>k</code> indicates the estimated clusters. The column <code>j</code> indicates the country (context) of the estimated value for the respective cluster’s coefficient. The second summary (<code>$tau</code>) shows the marginal effect of the context-level feature (<code>gap</code>). Details of the interpretation can be found in <span class="citation">Ferrari (2020)</span>.</p>
